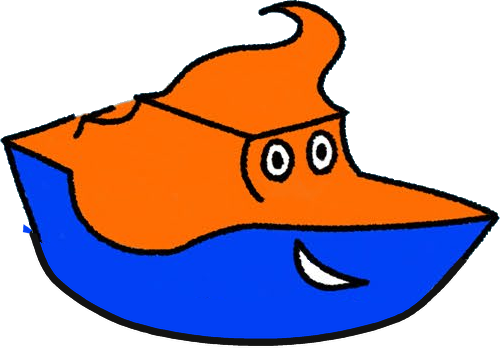
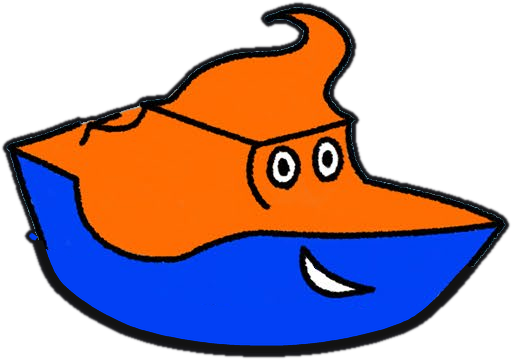
Tidy character cut-outs and make names readable
Smooth the silhouettes of Noah, Sophie, Tom and Elsie and give them a
clean black outline (Noah's cabin edge was ragged where the drawing has
no line). Remove leftover glow beside Sophie and seat her in her circle
like the book's character page. Character names are now blue with a
white outline so they read on the white glow and the blue.

Claude-Session: https://claude.ai/code/session_01EnbbVsTM7jdJBid4MfAjtB

Changed region(s): [[0.0, 0.0, 1.0, 1.0], [0.51, 0.546, 0.54, 0.5747], [0.48, 0.5172, 0.51, 0.546]]

diff --git a/index.html b/index.html
@@ -139,9 +139,12 @@ section{padding:90px 0;position:relative;overflow-x:clip}
 .medal img{position:absolute;left:50%;bottom:16%;transform:translateX(-50%);width:92%;z-index:2;transition:transform .3s;filter:drop-shadow(0 6px 6px rgba(0,40,90,.25))}
 .char:hover .medal img{transform:translateX(-50%) translateY(-10px) rotate(-3deg)}
 .medal.tall img{width:auto;height:118%;bottom:8%}
+.medal.rise{overflow:hidden}
+.medal.rise img{width:auto;height:94%;bottom:-3%}
+.char:hover .medal.rise img{transform:translateX(-50%) translateY(-4px)}
 .medal.round{overflow:hidden}
 .medal.round img{bottom:0;width:100%}
-.char h3{color:#fff;font-size:1.9rem;letter-spacing:.06em;margin:18px 0 6px;text-shadow:0 3px 0 var(--title),0 6px 14px rgba(0,40,110,.35)}
+.char h3{color:var(--title);font-size:1.9rem;letter-spacing:.06em;margin:18px 0 6px;text-shadow:2px 2px 0 #fff,-2px 2px 0 #fff,2px -2px 0 #fff,-2px -2px 0 #fff,0 2px 0 #fff,2px 0 0 #fff,0 -2px 0 #fff,-2px 0 0 #fff,0 6px 14px rgba(0,40,110,.3)}
 .char p{margin:0 auto;max-width:18em;color:#0d2c5a;font-weight:600}
 
 /* ---------- about ---------- */
@@ -358,7 +361,7 @@ footer a{color:#fff}
     </div>
     <div class="cast-grid">
       <div class="char"><div class="medal"><img src="img/noah.webp" alt=""></div><h3>NOAH</h3><p>The brave lifeboat. When someone's in trouble at sea, Noah is first out of the harbour.</p></div>
-      <div class="char"><div class="medal tall"><img src="img/sophie.webp" alt=""></div><h3>SOPHIE</h3><p>The lighthouse. She stands proud and strong on the harbour wall, and her beam guides everyone home.</p></div>
+      <div class="char"><div class="medal rise"><img src="img/sophie.webp" alt=""></div><h3>SOPHIE</h3><p>The lighthouse. She stands proud and strong on the harbour wall, and her beam guides everyone home.</p></div>
       <div class="char"><div class="medal"><img src="img/oscar.webp" alt=""></div><h3>OSCAR</h3><p>A young dinghy with a big sense of adventure, who's still learning that the sea isn't always friendly.</p></div>
       <div class="char"><div class="medal tall"><img src="img/tom.webp" alt="" style="height:105%"></div><h3>TOM</h3><p>A cheerful little sailing boat, and one of Oscar's friends in the harbour.</p></div>
       <div class="char"><div class="medal round"><img src="img/peteandy.webp" alt=""></div><h3>PETE &amp; ANDY</h3><p>Noah's lifeboat crew, never far from a warm mug of tea.</p></div>
